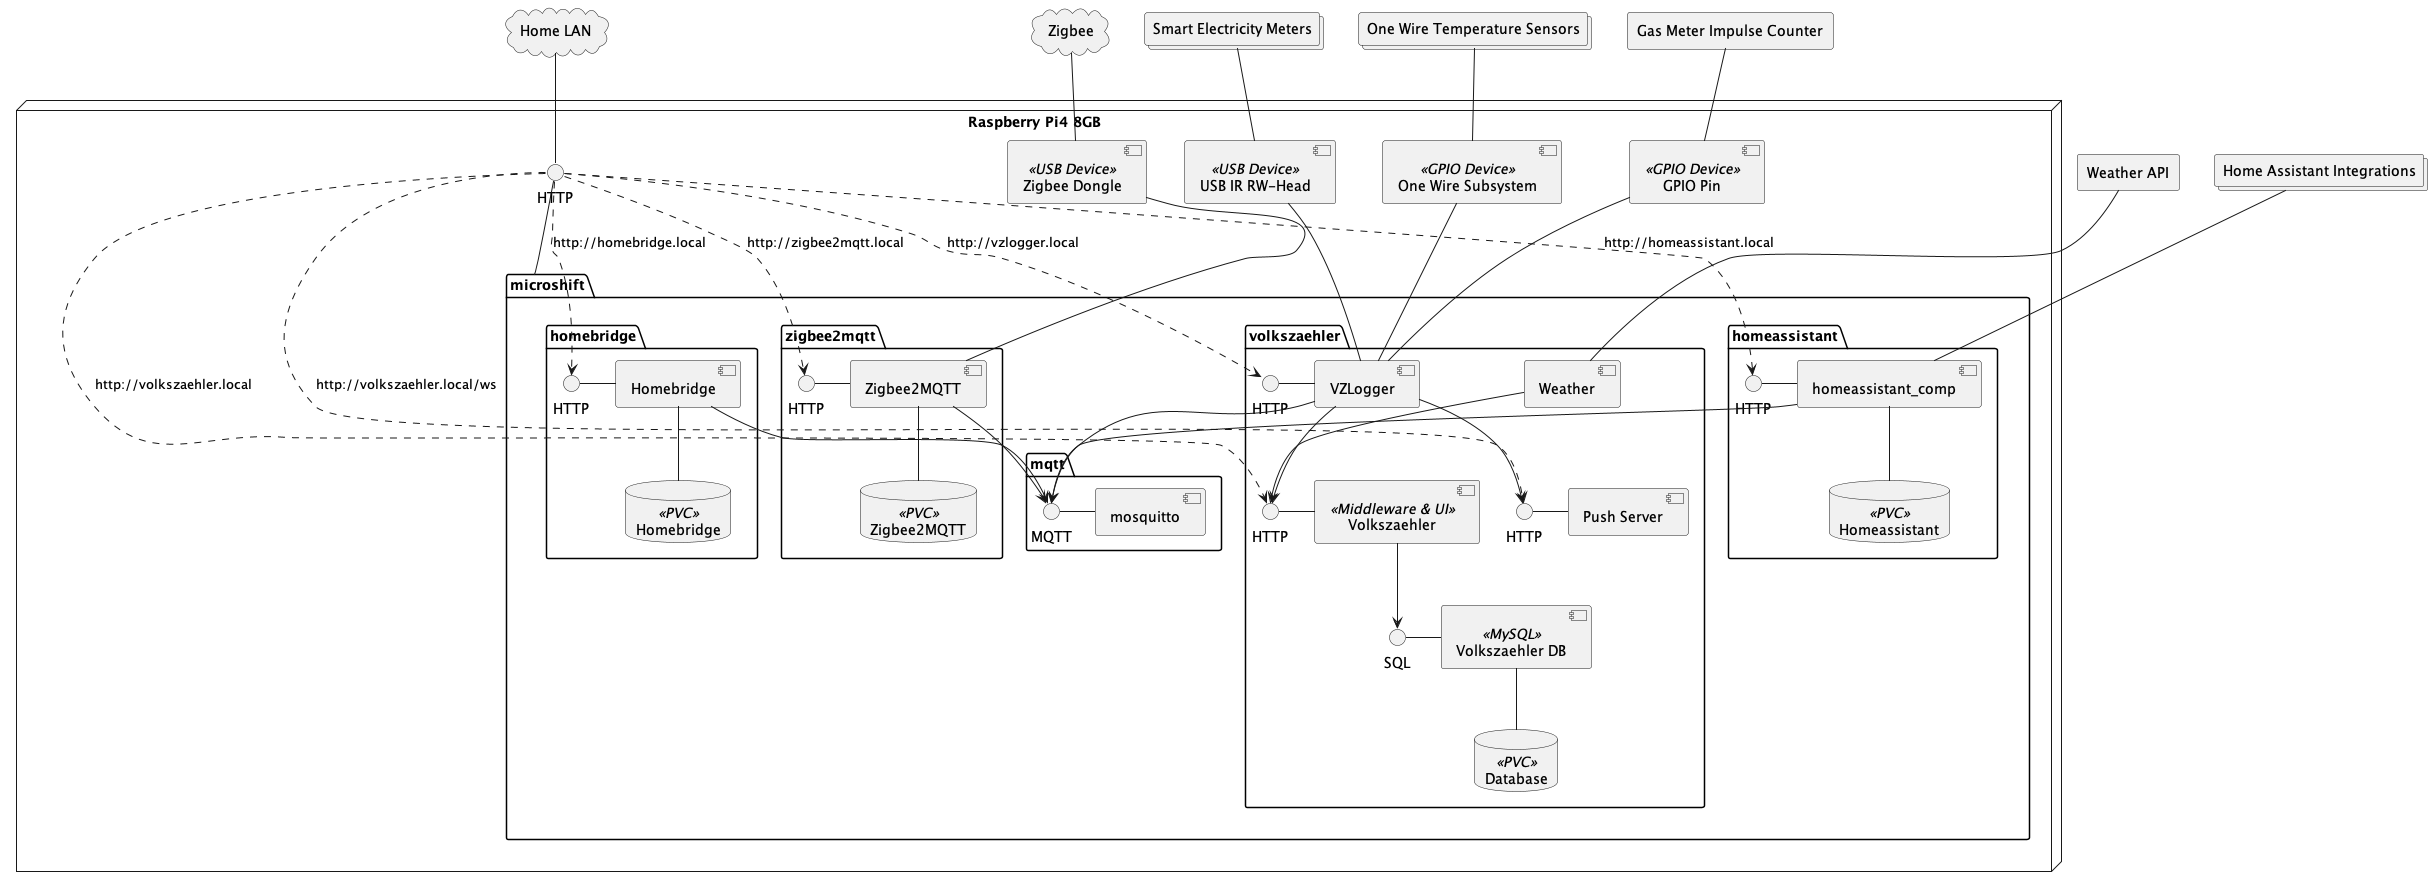
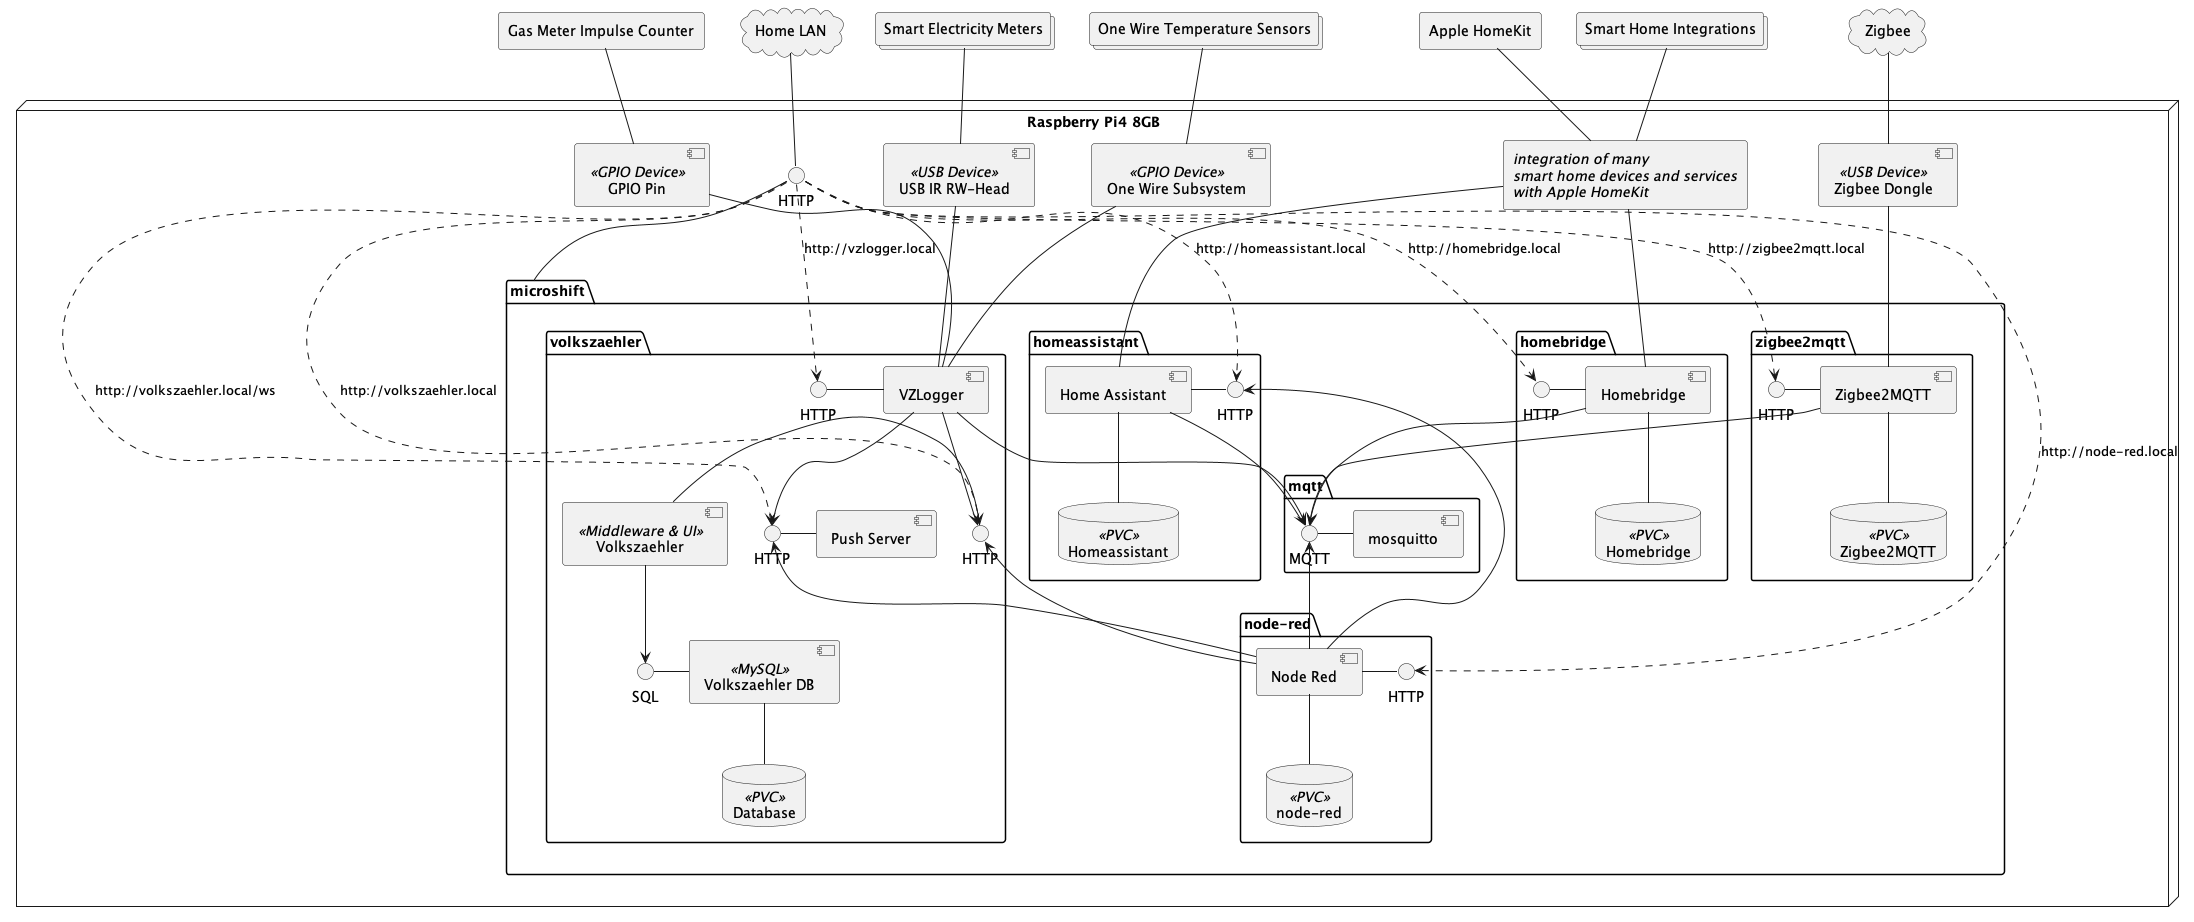
added node-red

diff --git a/Readme.MD b/Readme.MD
@@ -29,27 +29,26 @@ node rpi as "Raspberry Pi4 8GB" {
         zigbee2mqtt_comp -down-> MQTT
 
         package ns_homebridge as "homebridge" {
-            interface HTTP_Homebridge as "HTTP"
-            component Homebridge 
-            HTTP_Homebridge - Homebridge
+            interface HTTP_homebridge as "HTTP"
+            component homebridge_comp as "Homebridge" 
+            HTTP_homebridge - homebridge_comp
             database Homebridge_PVC as "Homebridge" <<PVC>> 
-            Homebridge -- Homebridge_PVC
+            homebridge_comp -- Homebridge_PVC
         }
-        Homebridge -down-> MQTT
+        homebridge_comp -down-> MQTT
 
 
         package ns_homeassistant as "homeassistant" {
             interface HTTP_Homeassistant as "HTTP"
-            component homeassistant_comp
+            component homeassistant_comp as "Home Assistant"
             HTTP_Homeassistant - homeassistant_comp
             database Homeassistant_PVC as "Homeassistant" <<PVC>>
             homeassistant_comp -- Homeassistant_PVC
         }
         homeassistant_comp -down-> MQTT 
 
-
         package ns_volkszaehler as "volkszaehler" {
-            component weather_comp as "Weather"
+            'component weather_comp as "Weather"
 
             component vzlogger_comp as "VZLogger"
             interface HTTP_VZLogger as "HTTP"
@@ -61,7 +60,7 @@ node rpi as "Raspberry Pi4 8GB" {
 
             interface HTTP_Pushserver as "HTTP"
             component Pushserver_comp as "Push Server"
-            HTTP_Pushserver - Pushserver_comp 
+            HTTP_Pushserver - Pushserver_comp
 
             interface SQL as "SQL"
             component Volkszaehler_db as "Volkszaehler DB" <<MySQL>>
@@ -69,21 +68,35 @@ node rpi as "Raspberry Pi4 8GB" {
             database Database_PVC as "Database" <<PVC>> 
             Volkszaehler_db -- Database_PVC
 
-            weather_comp -down-> HTTP_Volkszaehler
+            'weather_comp -down-> HTTP_Volkszaehler
             vzlogger_comp -down-> HTTP_Volkszaehler 
             vzlogger_comp -down-> HTTP_Pushserver 
             Volkszaehler_comp -down-> SQL
 
         }
         vzlogger_comp -down-> MQTT 
+
+        package ns_nodered as "node-red" {
+            interface HTTP_nodered as "HTTP"
+            component nodered_comp as "Node Red"
+            HTTP_nodered - nodered_comp
+            database nodered_PVC as "node-red" <<PVC>>
+            nodered_comp -- nodered_PVC
+        }
+        MQTT <-down- nodered_comp
+        HTTP_Homeassistant <-down- nodered_comp
+        HTTP_Pushserver <-down- nodered_comp
+        HTTP_Volkszaehler <-down- nodered_comp
     }
     Router - microshift 
     Router ..> HTTP_Volkszaehler : http://volkszaehler.local
     Router ..> HTTP_Pushserver : http://volkszaehler.local/ws
     Router ..> HTTP_Homeassistant : http://homeassistant.local
-    Router ..> HTTP_Homebridge : http://homebridge.local
+    Router ..> HTTP_homebridge : http://homebridge.local
     Router ..> HTTP_Zigbee2MQTT : http://zigbee2mqtt.local
     Router ..> HTTP_VZLogger : http://vzlogger.local
+    Router ..> HTTP_nodered : http://node-red.local
+
 
     component meterserialinterface_comp as "USB IR RW-Head" <<USB Device>>
     meterserialinterface_comp -- vzlogger_comp  
@@ -96,6 +109,14 @@ node rpi as "Raspberry Pi4 8GB" {
 
     component zigbee_dongle as "Zigbee Dongle" <<USB Device>>
     zigbee_dongle -- zigbee2mqtt_comp
+
+    rectangle ha_integration_description [
+        //integration of many//
+        //smart home devices and services//
+        //with Apple HomeKit//
+    ]
+    ha_integration_description -- homeassistant_comp
+    ha_integration_description -- homebridge_comp
 }
 
 cloud home_network as "Home LAN"
@@ -107,8 +128,8 @@ zigbee_network -- zigbee_dongle
 collections smart_meters as "Smart Electricity Meters"
 smart_meters -- meterserialinterface_comp 
 
-agent weather_api as "Weather API"
-weather_api -- weather_comp 
+'agent weather_api as "Weather API"
+'weather_api -- weather_comp 
 
 collections onewire_sensors as "One Wire Temperature Sensors"
 onewire_sensors -- onewiresensors_comp
@@ -116,8 +137,11 @@ onewire_sensors -- onewiresensors_comp
 agent gas_meter as "Gas Meter Impulse Counter"
 gas_meter -- impulsecounter_comp 
 
-collections ha_integrations as "Home Assistant Integrations"
-ha_integrations -- homeassistant_comp
+agent apple_homekit as "Apple HomeKit"
+apple_homekit -- ha_integration_description
+
+collections ha_integrations as "Smart Home Integrations"
+ha_integrations -- ha_integration_description
 
 @enduml
 ```
